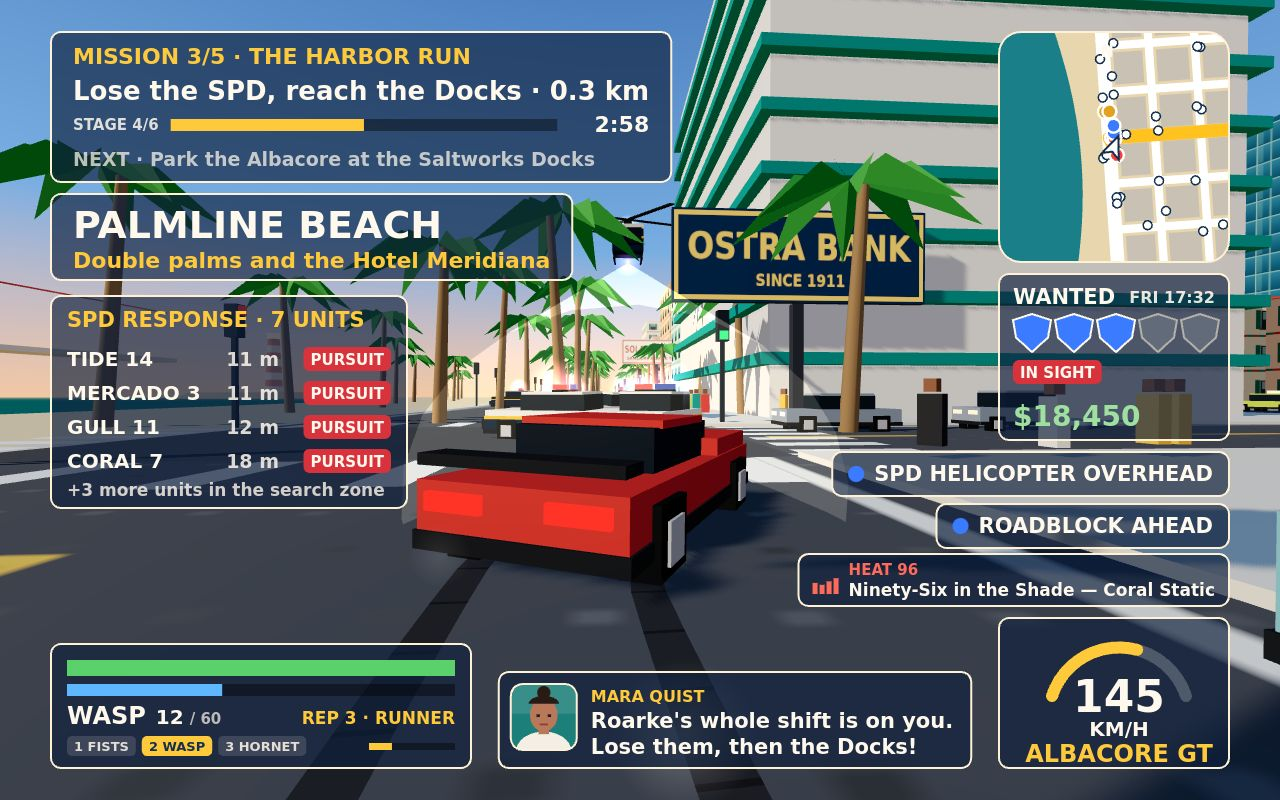
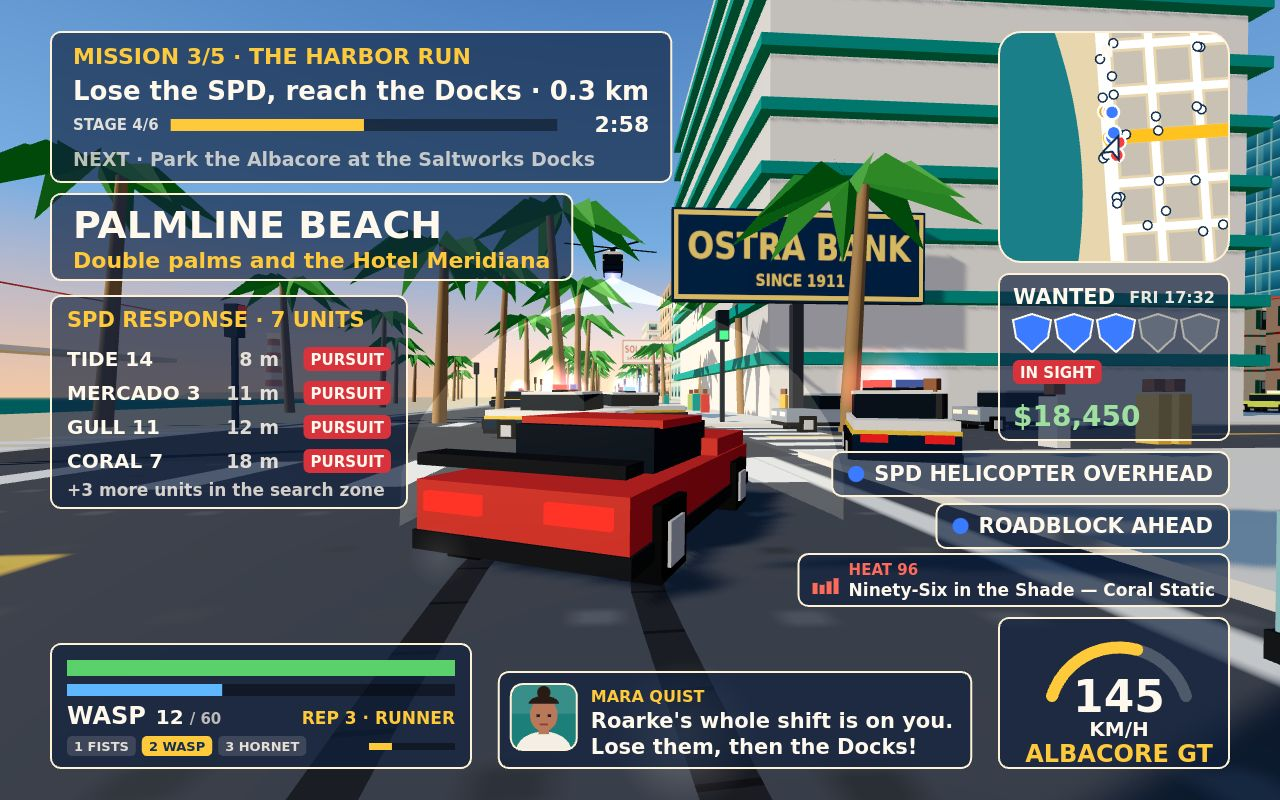
Cover re-stage: TIDE 14 alongside on the right in full, SKYLARK 1 in open sky clear of every panel; 1-chase.jpg 188.8 KiB; notes

diff --git a/game/src/dev/screenshot-scenes.js b/game/src/dev/screenshot-scenes.js
@@ -15,7 +15,7 @@ export function stageScreenshotScene(game, name) {
 
 // Cover framing: the arm behind and above the Albacore (it fills about 28% of the width), TIDE 14's
 // offset ahead/left of it, and SKYLARK 1's screen point (NDC) and height.
-const FRAME = { back: 2.8, up: 1.55, tideAhead: 11, tideLeft: 3.4, heliX: -0.03, heliY: 0.38, heliUp: 11 };
+const FRAME = { back: 2.8, up: 1.55, tideAhead: 8, tideLeft: -3.4, heliX: -0.04, heliY: 0.33, heliUp: 14 };
 
 export const SCENES = {
   // The SPD chase on Palmline: a seeded save state at WANTED 3 (the Albacore's theft was seen and

diff --git a/NOTES.md b/NOTES.md
@@ -52,6 +52,7 @@
 - SKYLARK 1 reads small (11 m up, about 45 m out) between palm fronds.
 - No drive-by fire; fists only hit combat targets (no punching walkers, on purpose: no gore).
 - The tracer starts at a fixed muzzle point, not the gun mesh's world position.
+- Cover re-stage (2026-11-18 21:37 EET): TIDE 14 alongside on the right, 8 m ahead (the left slot sits under the SPD panel), in full; SKYLARK 1 at 14 m in the open sky between the district card and the bank sign; 1-chase.jpg 188.8 KiB (q80). Dossier and originality not re-run.
 
 ## M3b Missions: done (steps 2-7 in the run of 2026-11-18 20:55-21:36 EET)
 - Cover fixes first: the grey disc round the car was SKYLARK 1's searchlight (cone base 5.2 m, so
